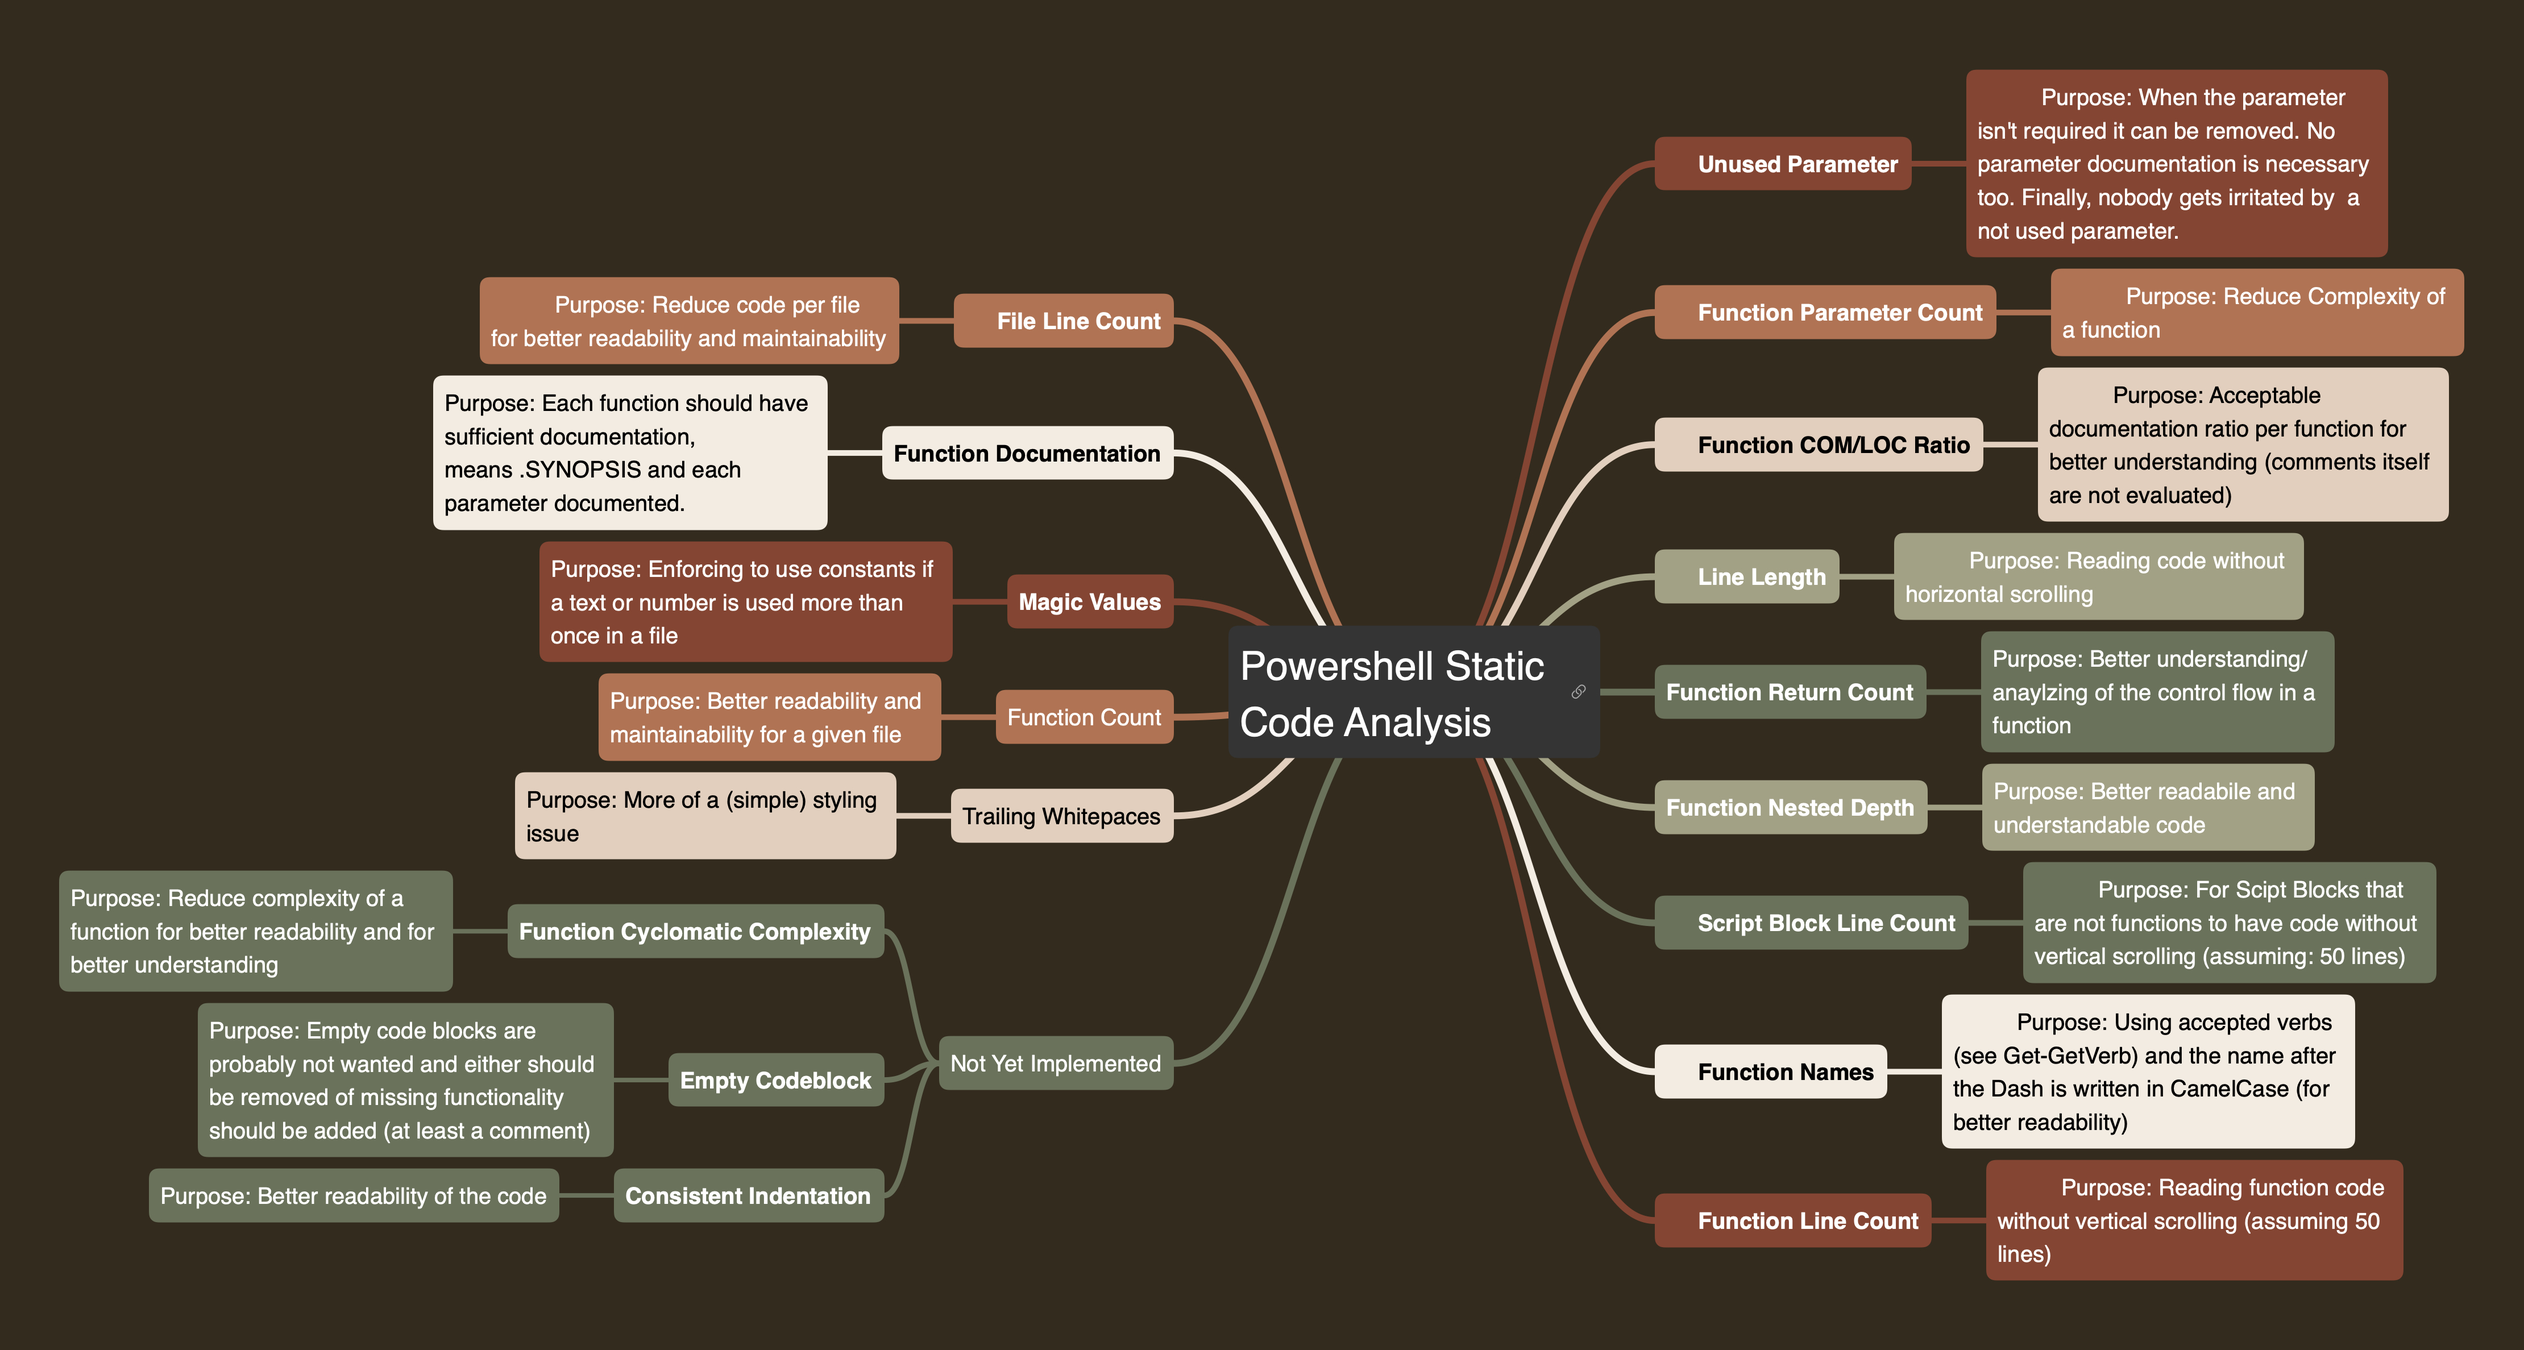
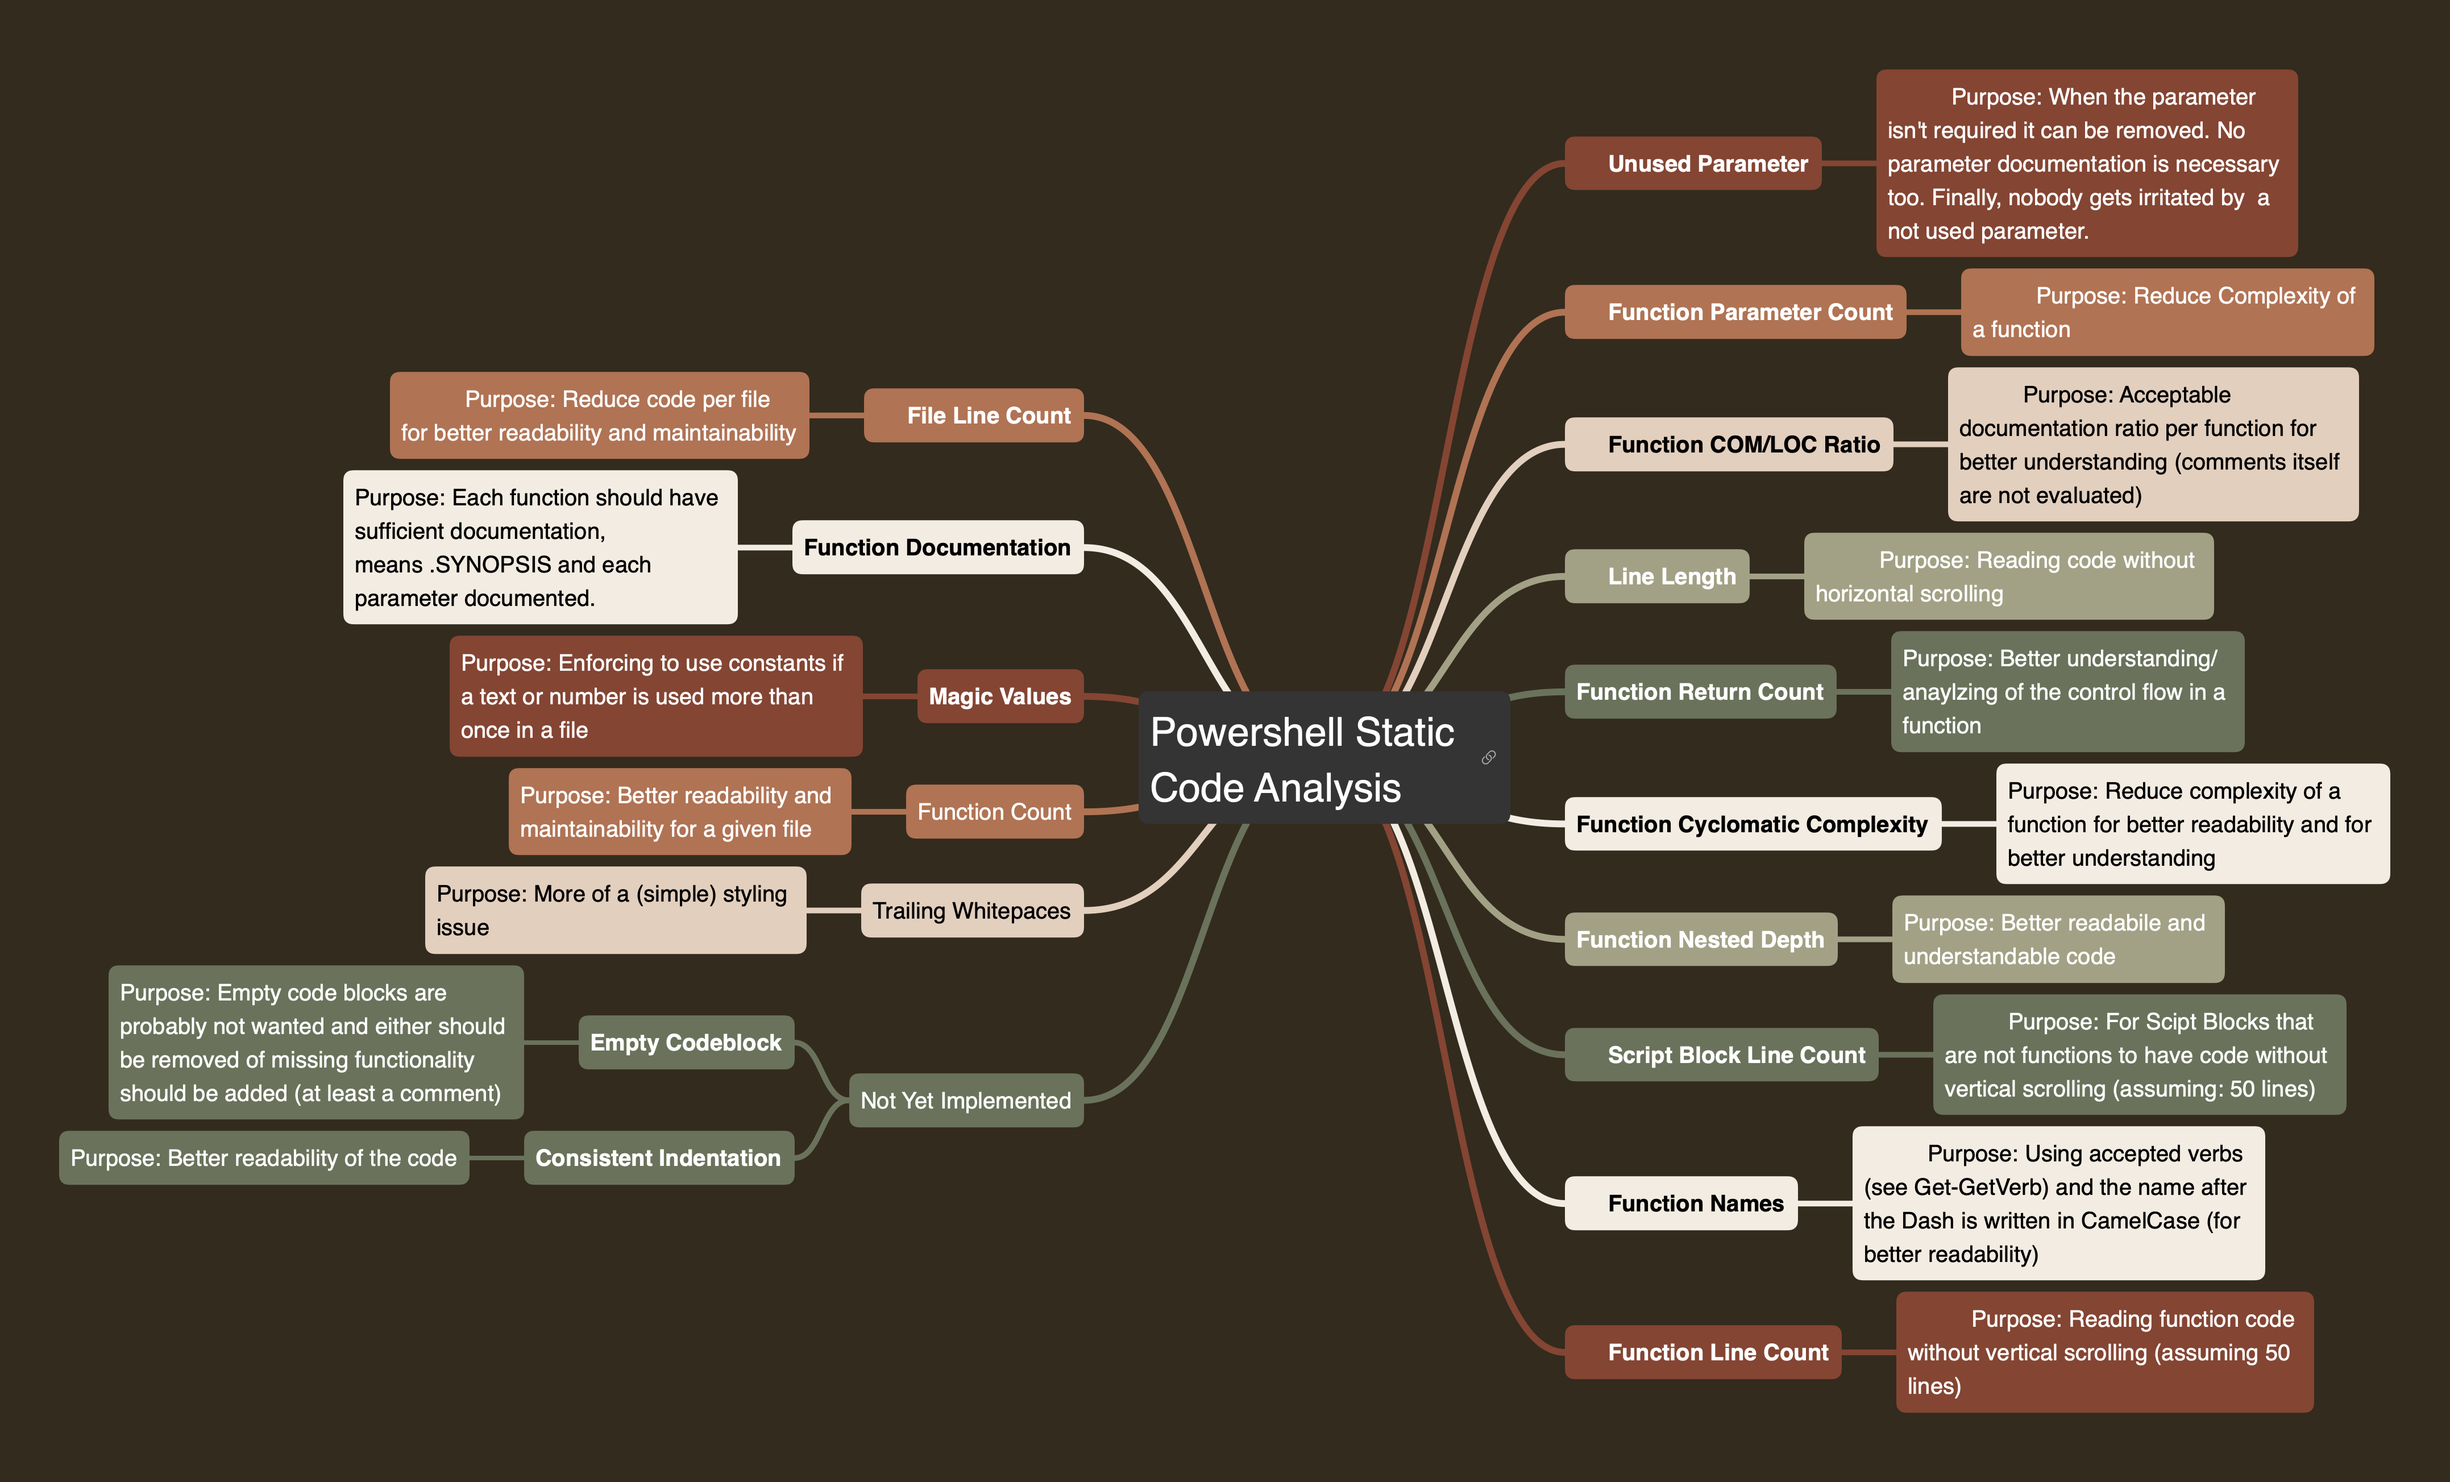
#10 New Analyse Task: Checking cyclomatic complexity of each function #13 Provide a mechanism to disable an analyse issue for a given line    -> here for lines of code in a block only (as a start)

diff --git a/docs/static-code-analysis.md b/docs/static-code-analysis.md
@@ -272,3 +272,28 @@ Initialize-AnalyseTask {
 ```
 
 The severity is `warning`.
+
+## Checking for function cyclomatic complexity
+
+The default is 10. You can change it like following:
+
+```powershell
+Initialize-AnalyseTask {
+    param ([hashtable] $TaskData)
+    $TaskData.analyseConfiguration = @{
+        Global = @{
+            AnalyzePathAndFileNames = @('./Invoke-Tasks.ps1')
+        }
+        AnalyzeFunctionCyclomaticComplexity = @{
+            MaximumXomplexity = 5
+        }
+        # other settings
+    }
+}
+```
+
+The severity is `warning`.
+
+It does count `if`, `elseif`, `while` (with condition to enter loop), `for` (with condition),
+`switch` (cases with a break), `trap` statements and logical operators (and, or, xor). Each
+of them count one.
